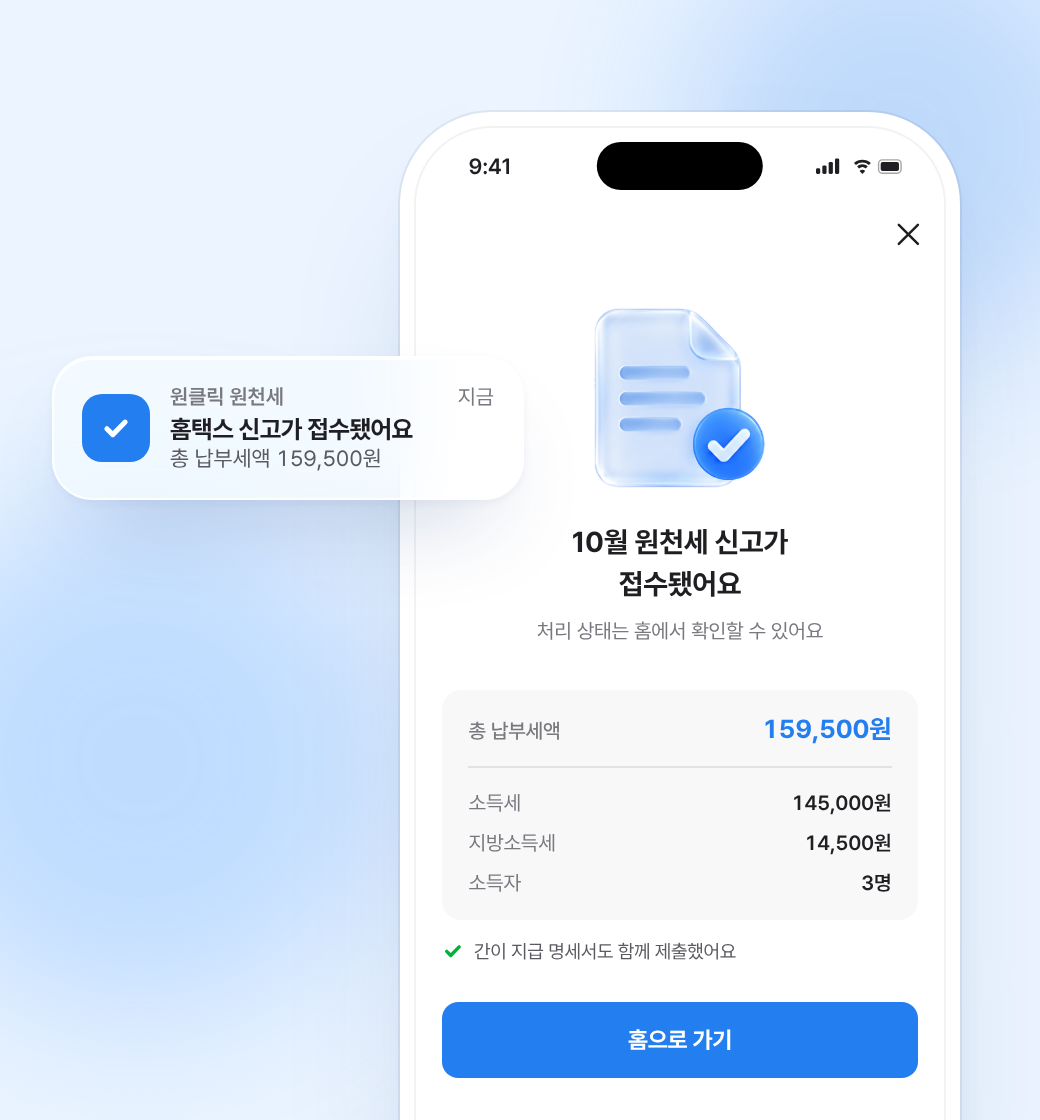
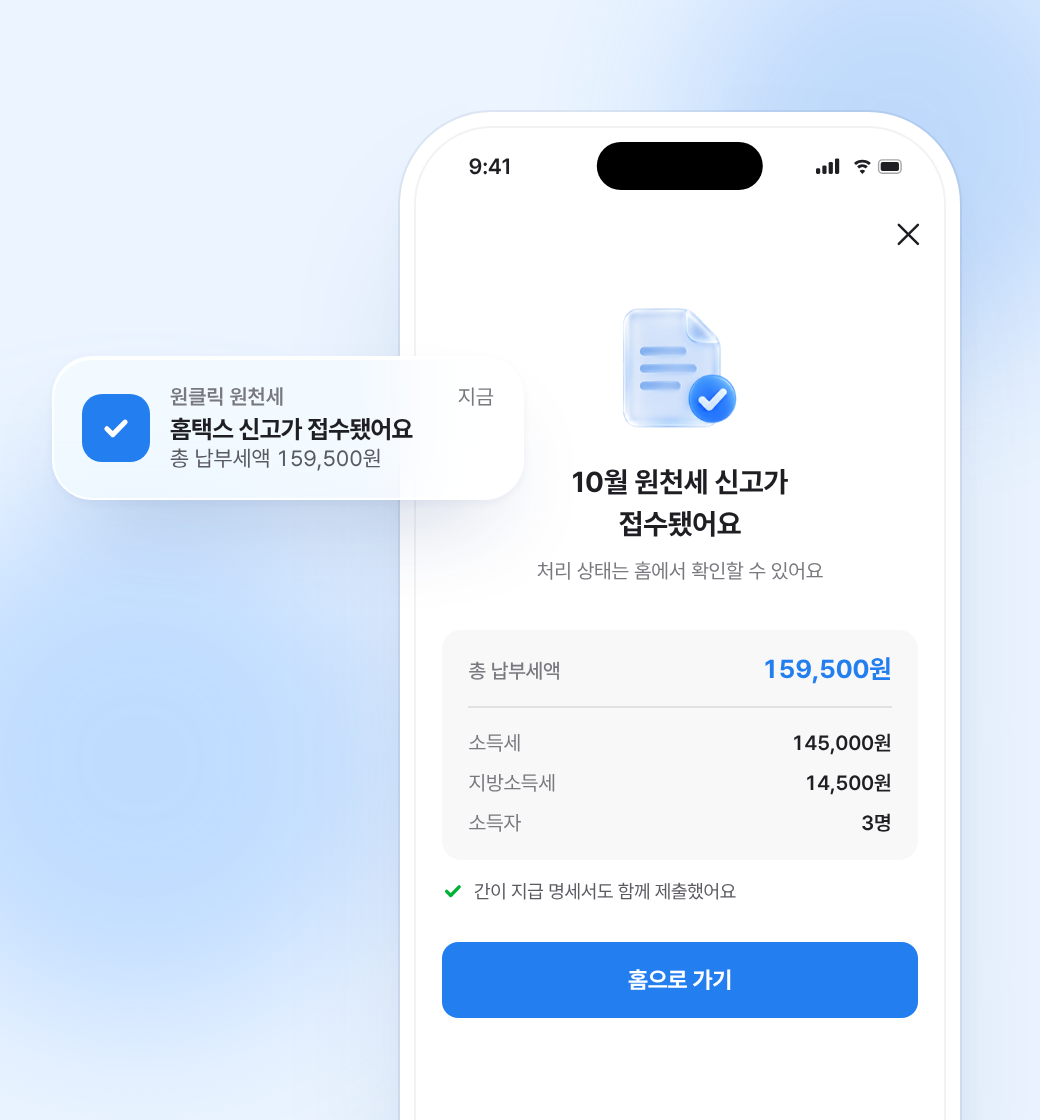
Shrink in-screen 3D graphics on the hero and login screens
Claude-Session: https://claude.ai/code/session_01XeTdt5mgBf16amy12iLBWn

diff --git a/images/_source/frames.html b/images/_source/frames.html
@@ -56,7 +56,7 @@ body{font-family:"Pretendard Variable",Pretendard,sans-serif;color:var(--g900);b
     <div class="st"><span>9:41</span><i class="di"></i><svg width="66" height="13"><use href="#stat"/></svg></div>
     <div class="nb"><span></span><svg width="24" height="24"><use href="#x"/></svg></div>
     <div class="bd" style="text-align:center;padding-top:28px">
-      <img src="3d/doc-check.png" style="width:132px;height:132px">
+      <img src="3d/doc-check.png" style="width:88px;height:88px">
       <div class="h21" style="margin-top:20px">10월 원천세 신고가<br>접수됐어요</div>
       <div class="p15" style="margin-top:8px">처리 상태는 홈에서 확인할 수 있어요</div>
     </div>
@@ -90,7 +90,7 @@ body{font-family:"Pretendard Variable",Pretendard,sans-serif;color:var(--g900);b
     <div class="st"><span>9:41</span><i class="di"></i><svg width="66" height="13"><use href="#stat"/></svg></div>
     <div class="nb"><svg width="24" height="24"><use href="#back"/></svg><svg width="24" height="24"><use href="#x"/></svg></div>
     <div class="bd" style="text-align:center;padding-top:20px">
-      <img src="3d/coin.png" style="width:150px;height:150px">
+      <img src="3d/coin.png" style="width:96px;height:96px">
       <div class="h21" style="color:var(--blue);margin-top:18px">원클릭 원천세</div>
       <div class="h21" style="margin-top:10px">원천세 직접 신고, 원클릭으로</div>
       <div class="p15" style="margin-top:8px">처음이어도 쉽게 시작할 수 있어요</div>
